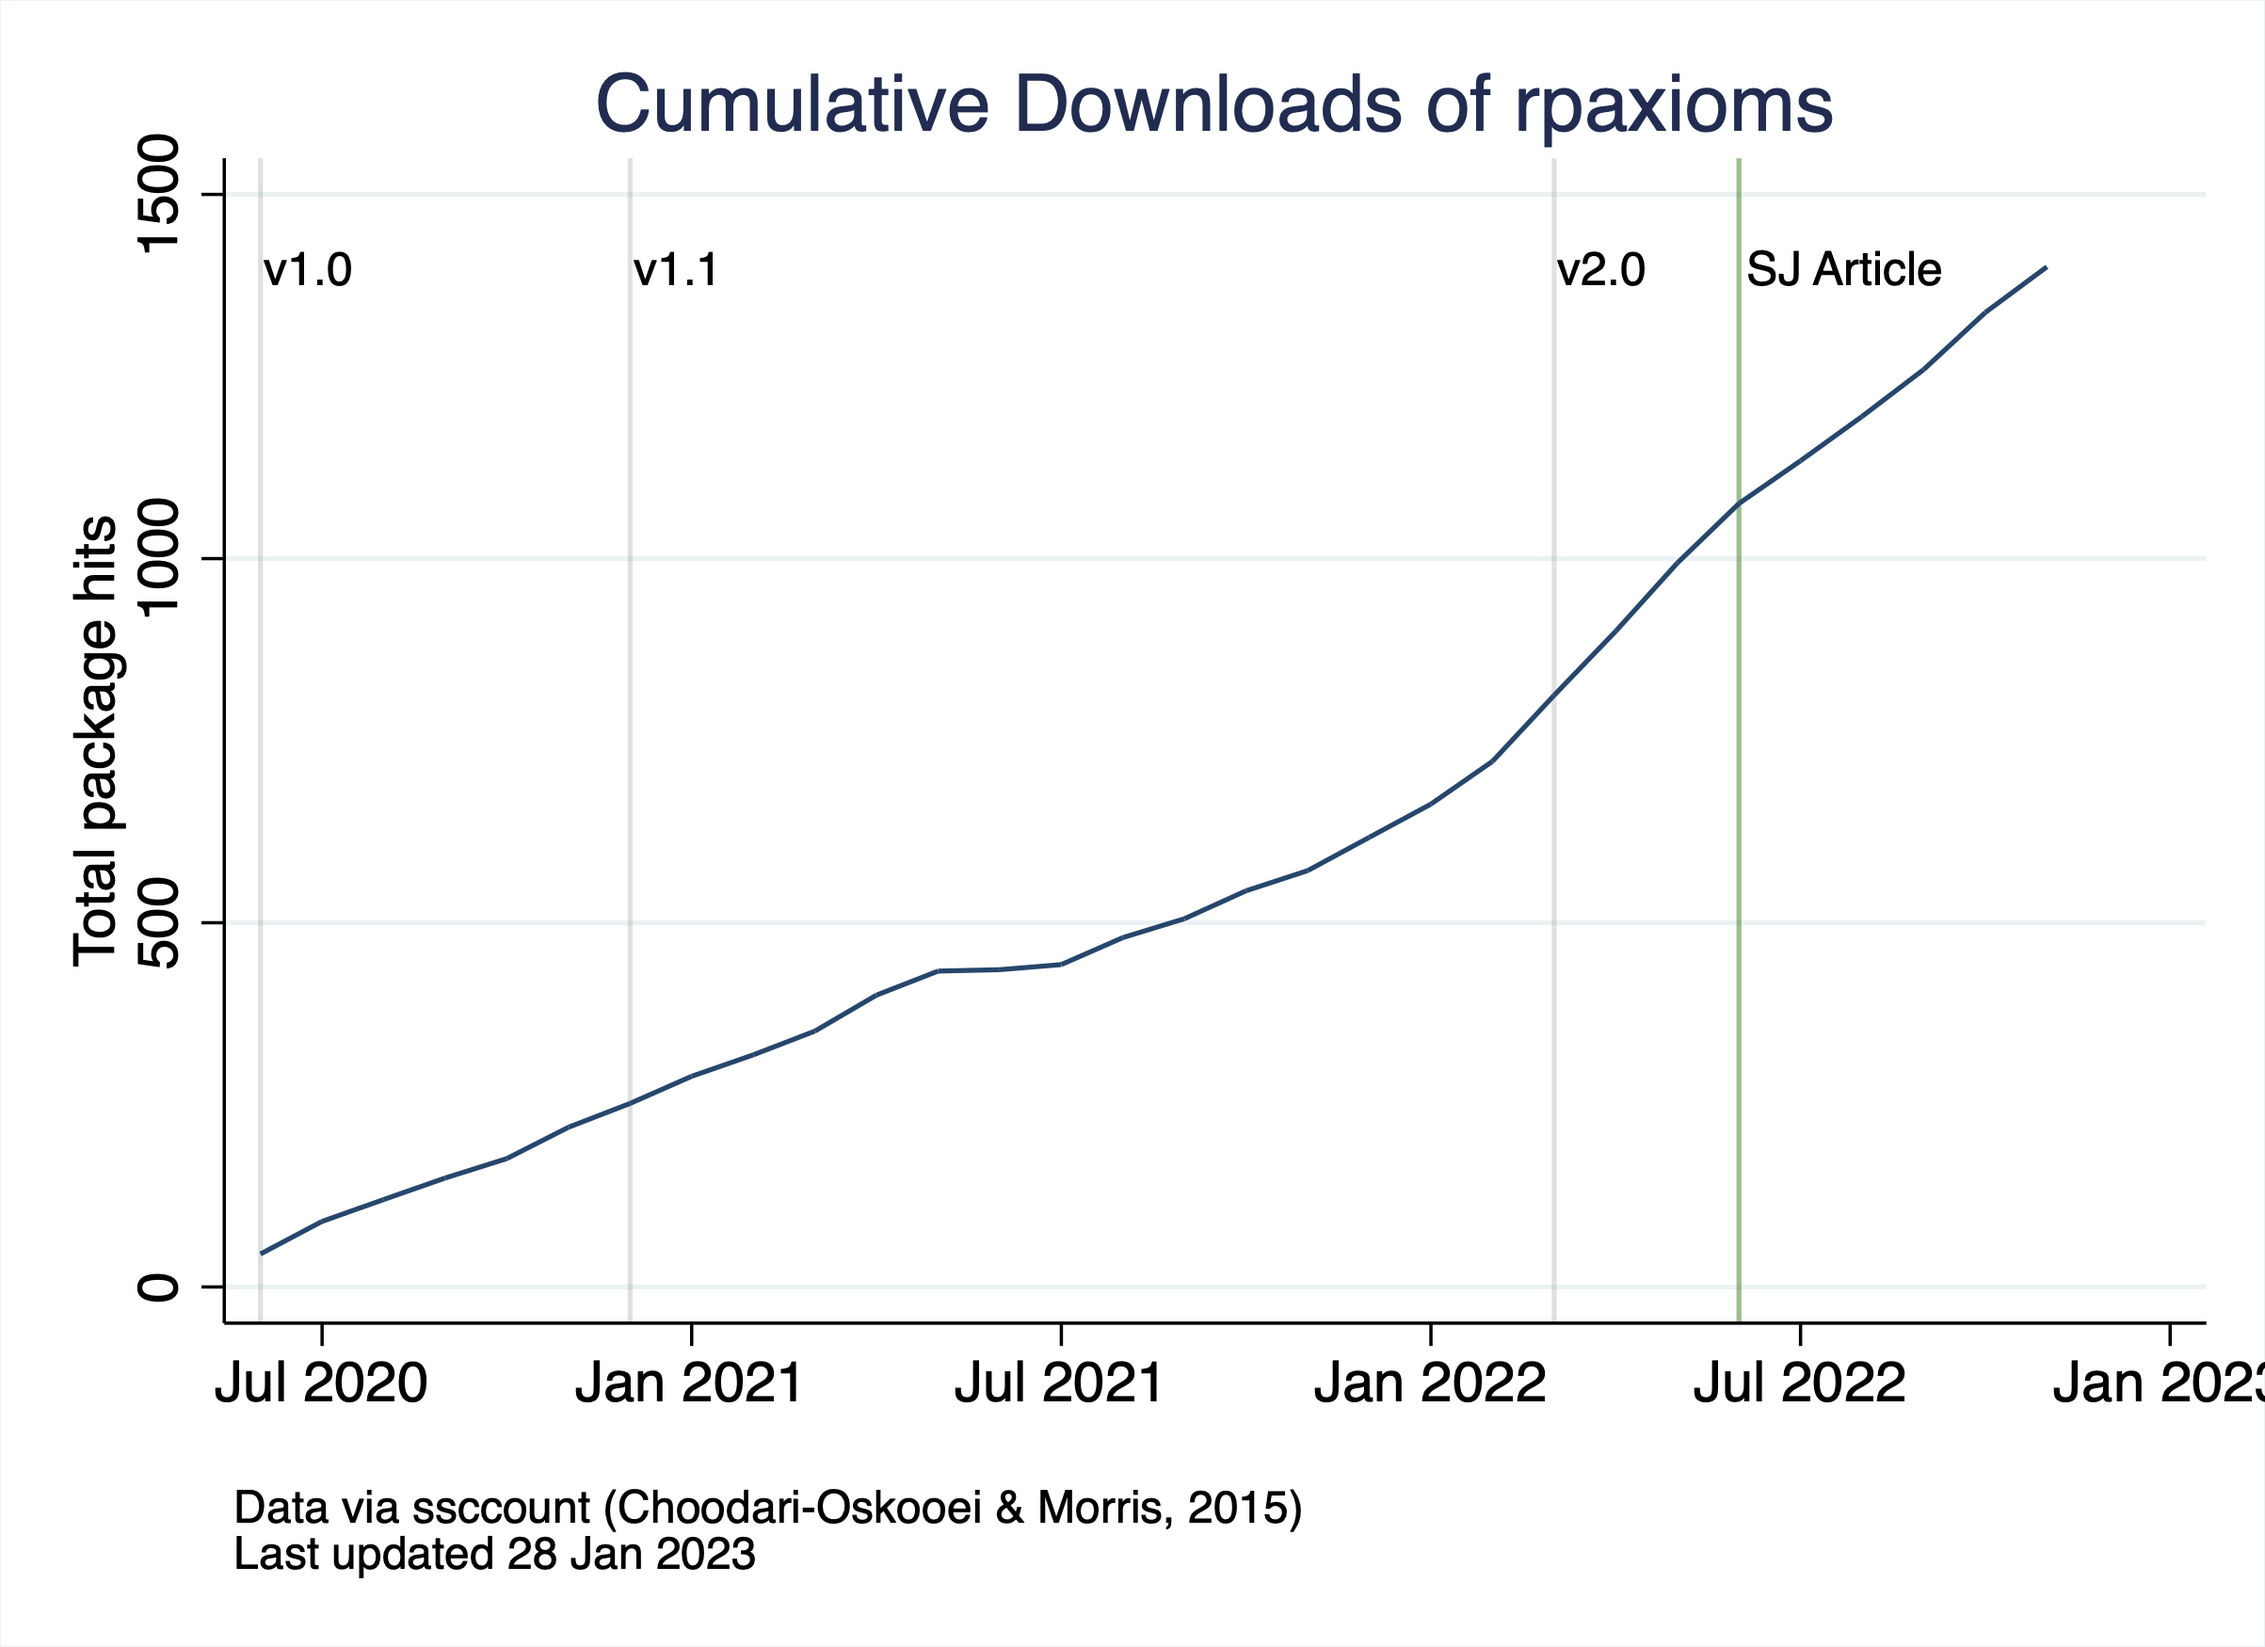
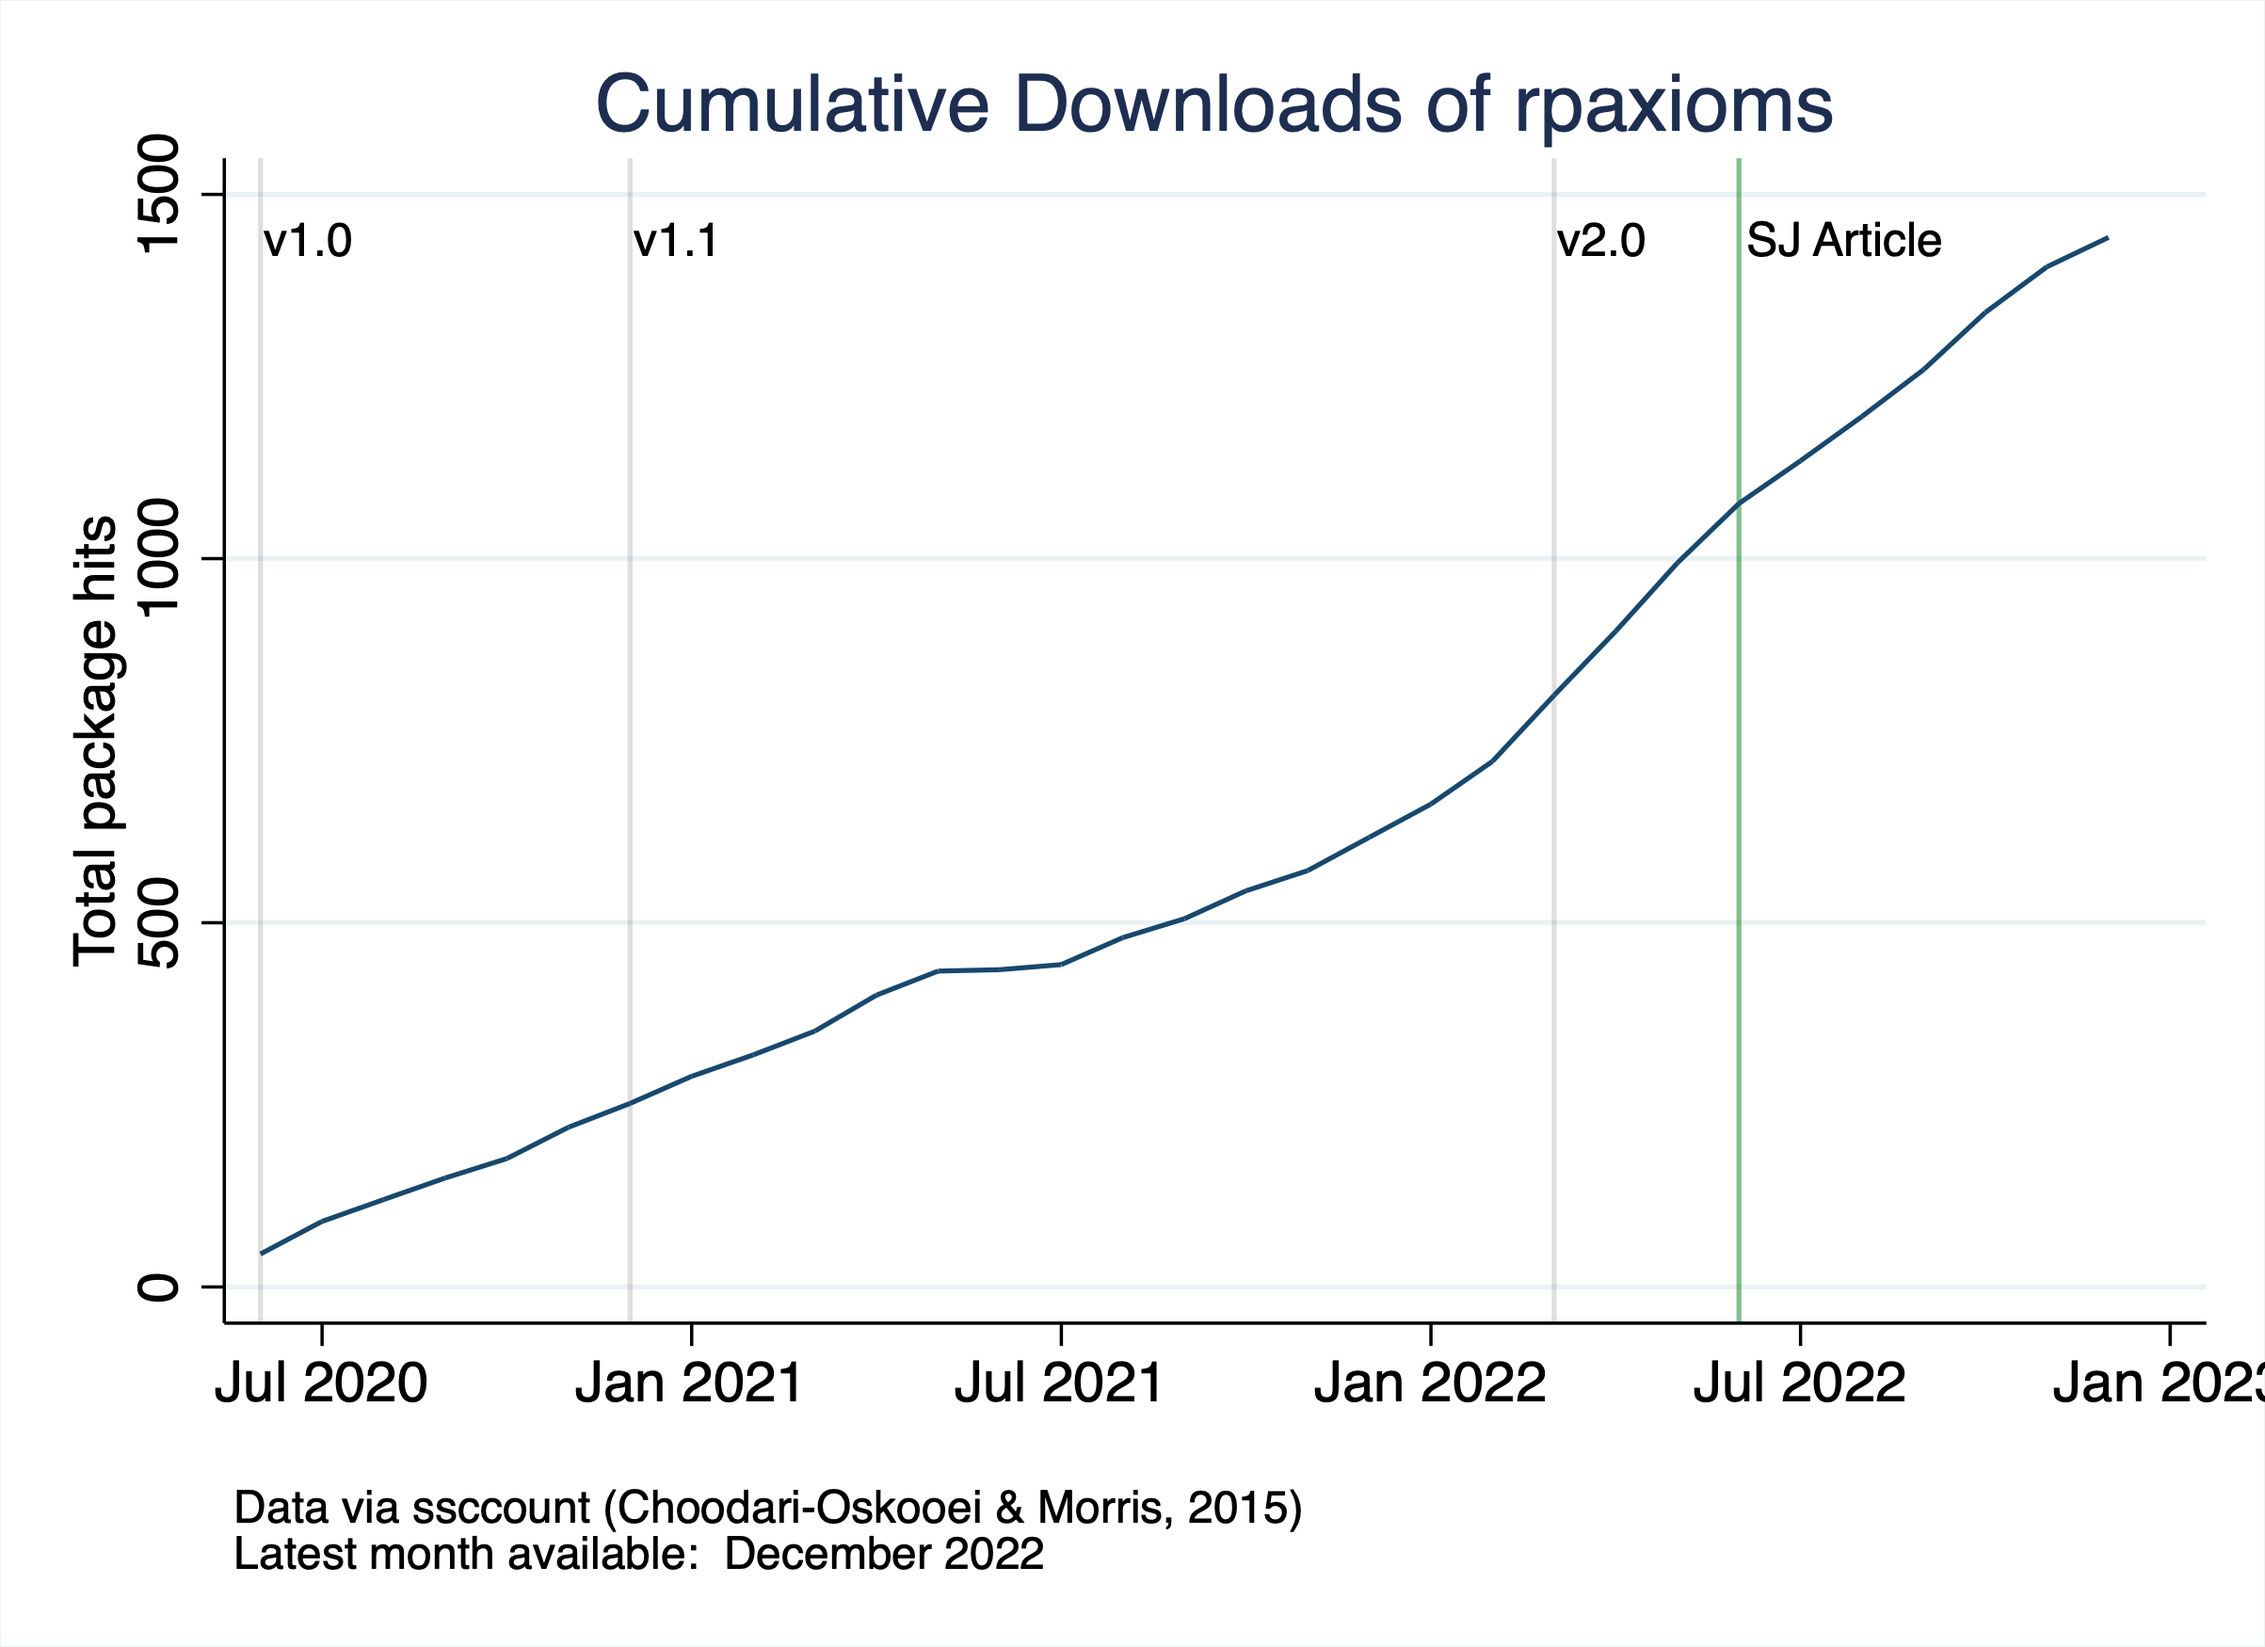
updated rpaxioms total hits

diff --git a/_posts/2022-07-01-rpaxioms.md b/_posts/2022-07-01-rpaxioms.md
@@ -16,7 +16,7 @@ household-level aggregate consumption data.
 ## Citation
 Demetry, M., Hjertstrand, P. and Polisson, M., 2022. Testing axioms of revealed preference in Stata. <i>The Stata Journal</i>, 22(2), pp.319-343.
 
-## Total downloads: 1,400
+## Total downloads: 1,441
 <img src="/assets/img/rpaxioms_cumulative_hits.png" alt="number of downloads" width="100%"/>
 
 <details>
